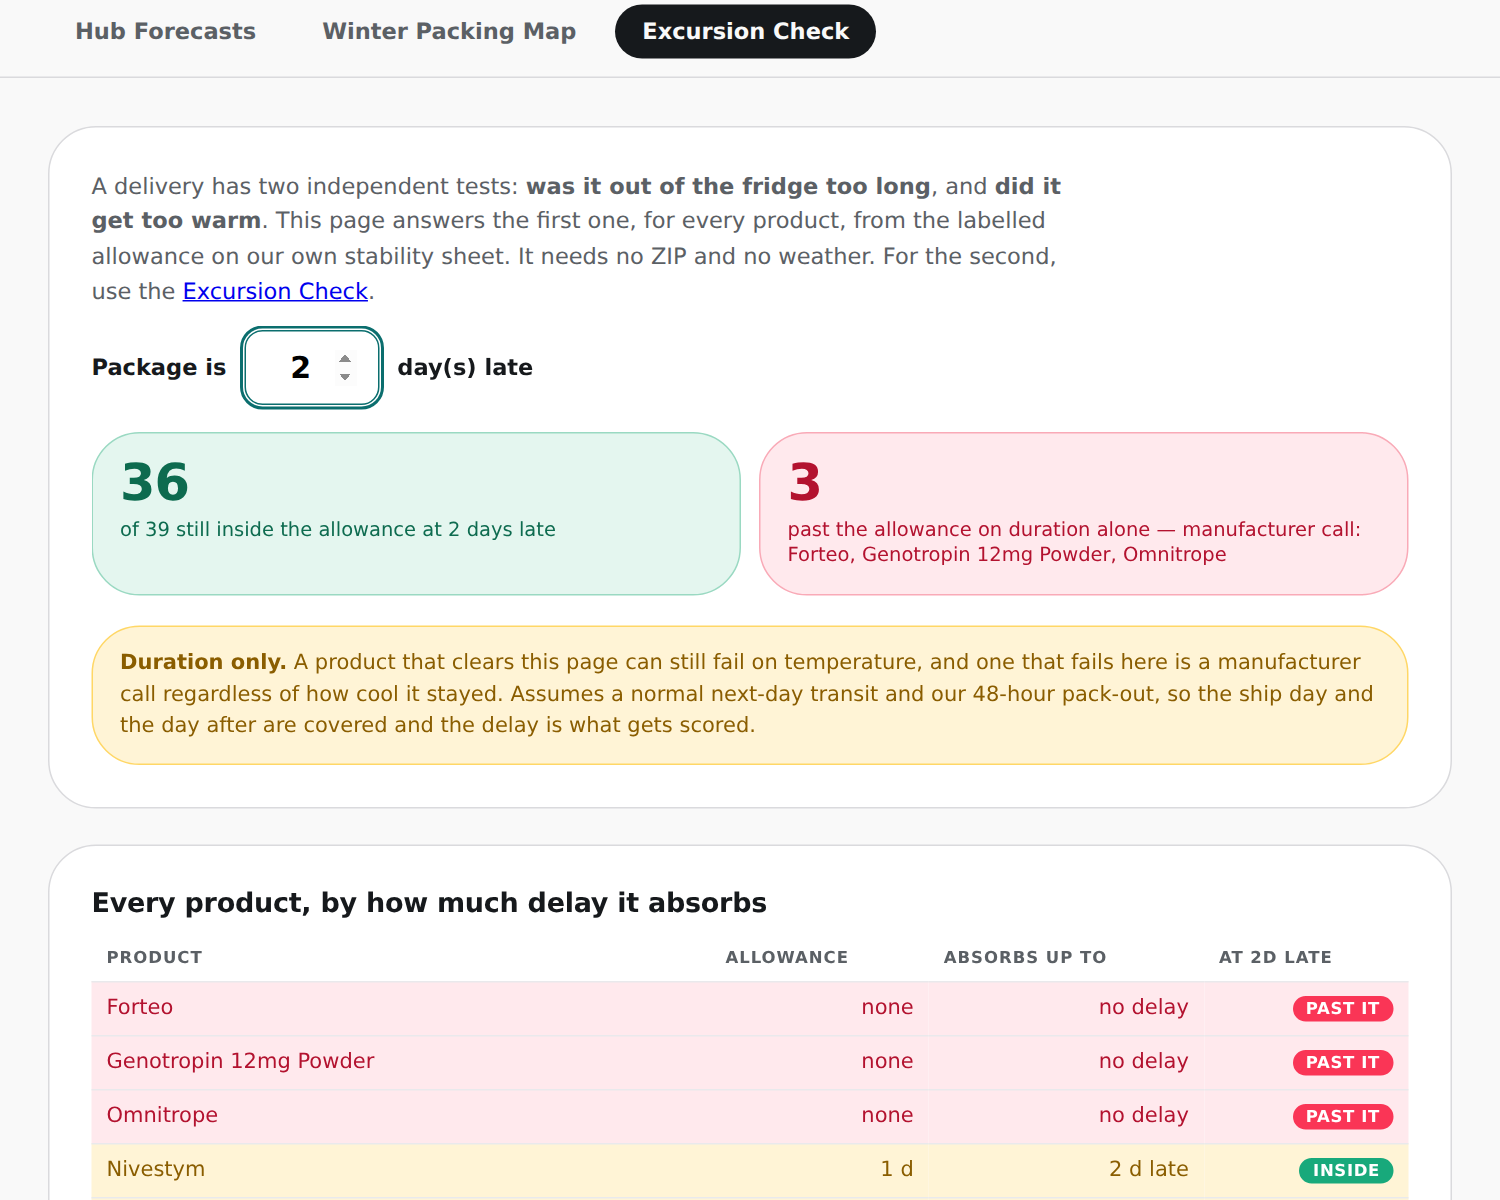
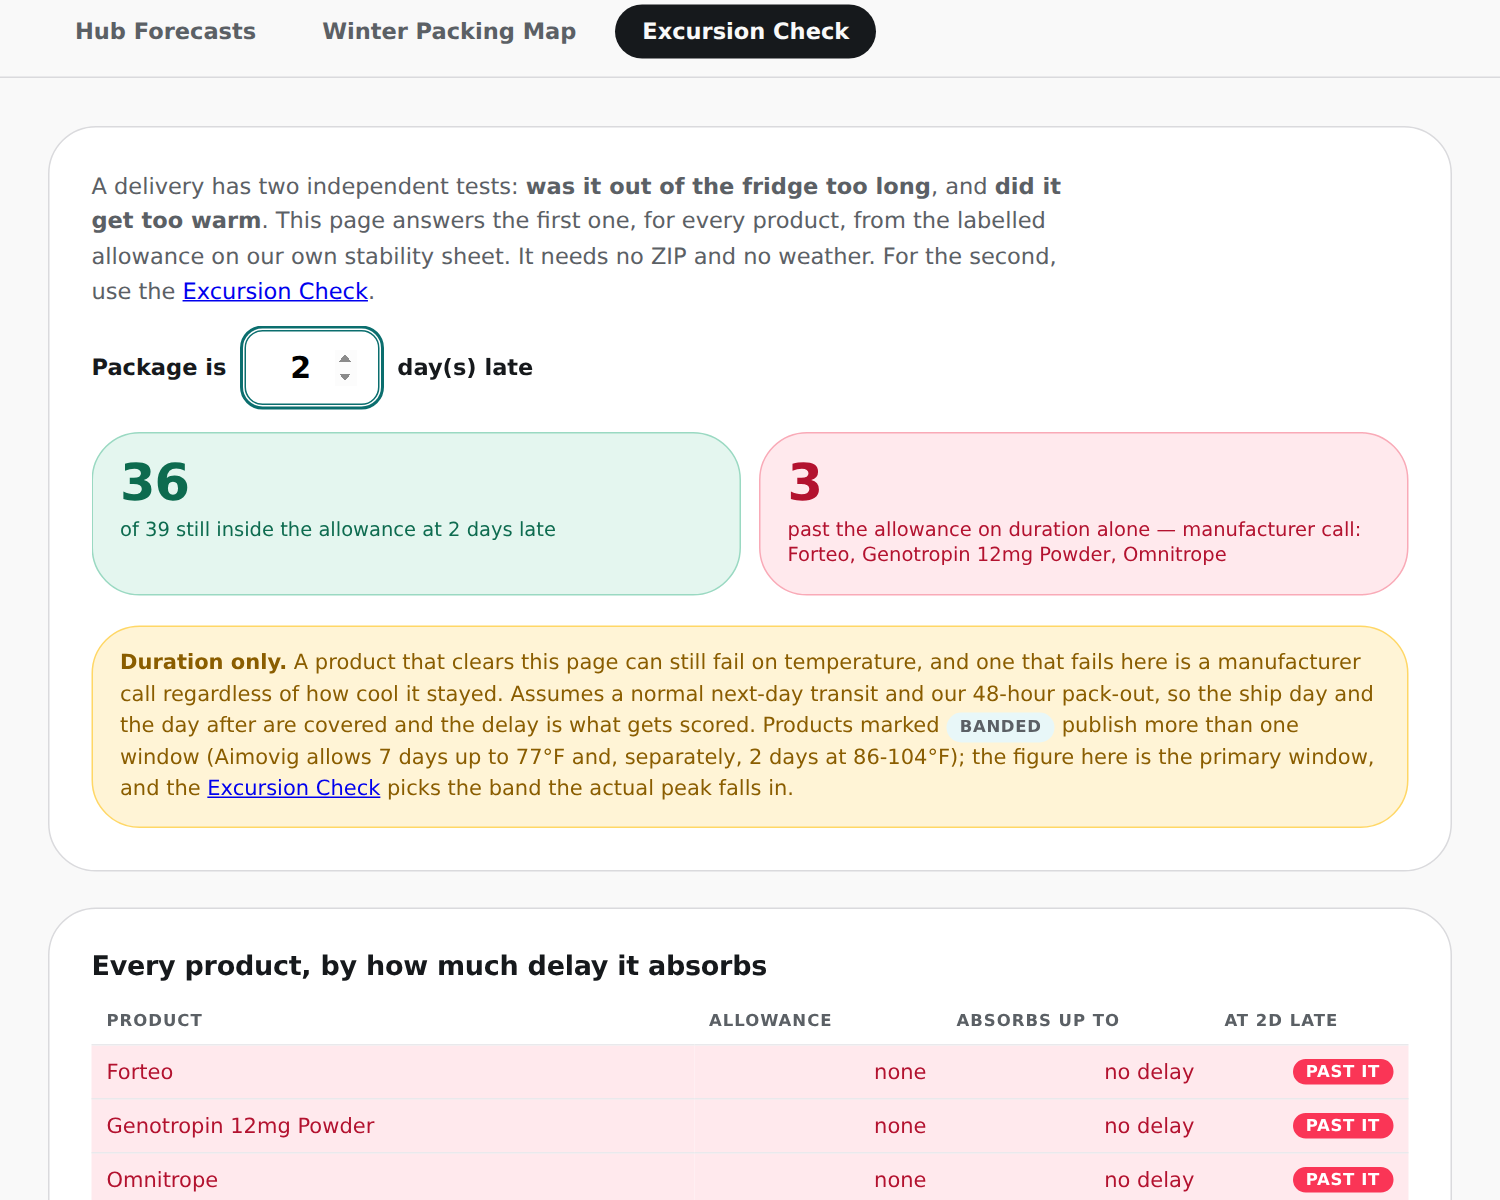
Use the published temperature windows instead of only the primary ceiling (#39)
Aimovig's label carries two windows: 7 days at up to 77F, and separately 2
days at 86-104F. Opzelura has three. The converter already stored them in
`tiers` and nothing read that field, so the page judged every peak against
the primary 77F ceiling alone. An Aimovig package peaking at 95F for a day
came back as a possible heat excursion when Amgen's own data covers two days
in exactly that range. Storing a field and never reading it is worse than not
storing it, because it looks handled.

The decision now picks the window the peak actually falls in:

- Peak inside a higher window, duration within it -> OK, citing the window by
  name and saying the exposure is covered rather than an excursion.
- Peak inside a higher window, duration past it -> judgment naming the window
  and its limit.
- Peak inside a window but the weather record is thin -> the thin-record
  judgment, which now says the window would otherwise have covered it, rather
  than wrongly claiming the duration was exceeded.
- Peak between the published windows (Aimovig has nothing from 77F to 86F) or
  above all of them -> judgment stating that no window covers it and sending
  the call to the manufacturer, rather than rounding it into either one.

Unbanded products are untouched. The allowance line lists every window, and
the delay guide marks banded products since the figure there is the primary
window only.

Keeping 77F as the operative ceiling was right: the sheet's `104**` cell is
[…]

diff --git a/excursion.html b/excursion.html
@@ -686,6 +686,25 @@ function budgetText(d, nDays) {
   return body + (d.cumulative ? ', and this is cumulative so it counts against the running total' : '');
 }
 
+// ---- banded allowances ---------------------------------------------------
+// A few labels publish more than one window. Aimovig allows 7 days at up to
+// 77F AND, separately, 2 days at 86-104F. Opzelura has three. A peak landing
+// in a higher band is judged against THAT band's own allowance rather than
+// against the primary ceiling, which would otherwise flag exposure the
+// manufacturer has already covered. Note the bands need not be contiguous:
+// Aimovig publishes nothing between 77F and 86F, and a peak in that gap gets
+// no coverage from either.
+function bandFor(d, peakF) {
+  if (!d || !d.tiers || peakF == null) return null;
+  return d.tiers.find(t => peakF >= t.minF && peakF <= t.maxF) || null;
+}
+function bandDays(t) { return Math.max(1, Math.ceil(t.hours / 24)); }
+function bandText(t) {
+  const dur = t.hours < 24 ? `${t.hours} hours` : `${bandDays(t)} day${bandDays(t) === 1 ? '' : 's'}`;
+  return `${fmtF(t.minF)} to ${fmtF(t.maxF)} for ${dur}`;
+}
+function allBandsText(d) { return (d.tiers || []).map(bandText).join(', and '); }
+
 // Is the ceiling for this product one we could not verify? Flagged rows and
 // after-first-use rows get the wider margin.
 function ceilingUncertain(d) { return !!(d && (d.flag || d.inUseAllowance)); }
@@ -780,6 +799,7 @@ function onDrugChange() {
   if (d.noExcursion) headline = `<b>No room-temperature allowance.</b> Must stay ${rangeText(floor, ceil)} at all times`;
   else if (d.calculatorUrl) headline = `Allowance depends on the presentation and whether it has been started — <a href="${d.calculatorUrl}" target="_blank" rel="noopener">manufacturer calculator</a>`;
   else if (d.refrigerated === false) headline = `<b>Room-temperature product</b> — keep within ${rangeText(floor, ceil)}${at ? `, up to ${at} at the edges` : ''}`;
+  else if (d.tiers) headline = `Allowed out of the fridge: <b>${allBandsText(d)}</b>`;
   else headline = `Allowed out of the fridge: <b>up to ${fmtF(ceil)}${at ? ` for ${at}` : ''}</b>${floor != null ? ` · not below <b>${fmtF(floor)}</b>` : ''}${d.freezeSensitive ? ' · <b>do not freeze</b>' : ''}`;
   // the two rules that change what the patient is told if the product is kept
   // the duration half of a delay call, answerable the moment a product is picked
@@ -1004,6 +1024,51 @@ function decide() {
       `<strong>Pack state:</strong> ${packState === 'cool' ? `still cool on arrival ${K}` : `warm on arrival ${R}`}`,
       `<strong>Appearance:</strong> looks normal ${K} · anything off ${R}`,
     ], '"It stayed cool the whole way and was refrigerated for most of that time, so it\'s fine to use."', '"It was out of refrigeration longer than this medication allows, so I\'m going to replace it. Please set it aside; we\'ll send a new one."');
+  }
+
+  // Banded products: judge the peak against the band it actually falls in.
+  if (d.tiers && hi != null && ceil != null && hi > ceil) {
+    const band = bandFor(d, hi);
+    if (band && nDays <= bandDays(band) && !evidenceWeak(lastResult, scored))
+      return show('ok', 'OK TO USE',
+        `Peak was ${fmtF(hi)}, above the ${fmtF(ceil)} ceiling — but ${d.name}'s label carries a second window for exactly this range: <strong>${bandText(band)}</strong>. The ${nDays} day${nDays === 1 ? '' : 's'} scored ${nDays === 1 ? 'is' : 'are'} inside it, so this exposure is covered rather than an excursion.`,
+        `"That range is actually covered by ${d.name}'s own stability data for this long, so it's fine to use. Into the fridge and use as normal."`,
+        aftercare(d) + evid(scored));
+
+    // inside the band on duration, but the record behind it is not good enough
+    if (band && nDays <= bandDays(band)) return judge('JUDGMENT CALL — the weather record is thin', [
+      `Peak was <strong>${fmtF(hi)}</strong>, inside ${d.name}'s <strong>${bandText(band)}</strong> window, and ${nDays} day${nDays === 1 ? '' : 's'} is within it`,
+      `<strong>But the record has gaps.</strong> ${evidenceLine(lastResult, scored)}`,
+      'A hotter unobserved hour could put the peak outside that window entirely',
+    ], [
+      `<strong>Pack state, which does not rely on the record:</strong> ${packState === 'cool' ? `still cool on arrival ${K}` : `warm on arrival ${R}`}`,
+      `<strong>Appearance:</strong> looks normal ${K} · anything off ${R}`,
+      `<strong>Headroom in the window:</strong> peak well under ${fmtF(band.maxF)} ${K} · close to it ${R}`,
+    ], `"What we can see puts it inside what ${d.name}'s data covers, and the packs back that up. It's fine to use."`,
+       '"The weather record for your area has gaps, so I\'d rather replace it than assume. Please set it aside."');
+
+    if (band) return judge('JUDGMENT CALL — past the high-temperature window', [
+      `Peak was <strong>${fmtF(hi)}</strong>, which falls in ${d.name}'s <strong>${bandText(band)}</strong> window`,
+      `<strong>${nDays} day${nDays === 1 ? '' : 's'} scored</strong> against that window's ${bandDays(band)}-day limit`,
+      `Published windows: ${allBandsText(d)}`,
+    ], [
+      `<strong>How far past:</strong> a day over ${K} · several days over ${R}`,
+      `<strong>Pack state:</strong> ${packState === 'cool' ? `still cool, so the box ran colder than the air ${K}` : `warm, so the box tracked the air ${R}`}`,
+      `<strong>Appearance:</strong> looks normal ${K} · anything off ${R}`,
+    ], `"It went above the usual range but within what ${d.name}'s data covers for a short period. It's fine to use."`,
+       '"It sat in that range longer than the data covers, so I\'m replacing it. Please set it aside; we\'ll send a new one."');
+
+    // peak sits between the published windows, or above all of them
+    return judge('JUDGMENT CALL — between the published windows', [
+      `Peak was <strong>${fmtF(hi)}</strong>, above the ${fmtF(ceil)} ceiling`,
+      `<strong>${d.name} publishes ${allBandsText(d)}</strong> — and nothing that covers ${fmtF(hi)}`,
+      `So this is not a case the label speaks to either way`,
+    ], [
+      `<strong>Call the manufacturer</strong> with the peak and the ${nDays} day${nDays === 1 ? '' : 's'} — they hold the data for the gap`,
+      `<strong>How close to a covered window:</strong> just over the lower one ${K} · well into the gap ${R}`,
+      `<strong>Appearance:</strong> looks normal ${K} · anything off ${R}`,
+    ], '"Let me confirm one thing with the manufacturer and call you straight back today."',
+       '"This landed outside what the label covers, so I\'m replacing it rather than guessing. Please set it aside."');
   }
 
   return judge('JUDGMENT CALL — possible heat excursion', [

diff --git a/delay-guide.html b/delay-guide.html
@@ -336,7 +336,10 @@
     <div class="caveat"><strong>Duration only.</strong> A product that clears this page can still fail on
     temperature, and one that fails here is a manufacturer call regardless of how cool it stayed. Assumes a
     normal next-day transit and our 48-hour pack-out, so the ship day and the day after are covered and the
-    delay is what gets scored.</div>
+    delay is what gets scored. Products marked <span class="pill na">banded</span> publish more than one
+    window (Aimovig allows 7 days up to 77&deg;F and, separately, 2 days at 86-104&deg;F); the figure here is
+    the primary window, and the <a href="excursion.html">Excursion Check</a> picks the band the actual peak
+    falls in.</div>
   </div>
 
   <div class="card" style="margin-top:16px;">
@@ -397,7 +400,7 @@ function render() {
     const over = late > m;
     const cls = over ? 'over' : (m - late <= 1 ? 'edge' : '');
     html += `<tr class="${cls}"><td>${d.name}${d.inUseAllowance ? ' <span class="pill na">in-use figure</span>' : ''}</td>`
-      + `<td class="num">${allowanceLabel(d)}</td>`
+      + `<td class="num">${allowanceLabel(d)}${d.tiers ? ' <span class="pill na">banded</span>' : ''}</td>`
       + `<td class="num">${m === 0 ? 'no delay' : m + ' d late'}</td>`
       + `<td class="num"><span class="pill ${over ? 'no' : 'ok'}">${over ? 'past it' : 'inside'}</span></td></tr>`;
   });

diff --git a/README.md b/README.md
@@ -146,6 +146,16 @@ Both pages are a **PWA** — open the site on a phone and "Add to Home Screen" f
   raise a freeze question for freeze-sensitive products rather than a clean OK.
   If the packs ever change to an engineered phase-change material (many melt
   at 41°F), change that constant and re-read the frozen/slushy wording.
+- **Banded allowances.** A few labels publish more than one window. Aimovig
+  allows 7 days up to 77°F **and, separately**, 2 days at 86–104°F; Opzelura has
+  three. The sheet's Max Temp cell for Aimovig reads `104**`, which is the top of
+  the *second* window, not a ceiling that holds for 7 days — using it as one
+  would invent an allowance nobody published. So `excursionMaxF` is the primary
+  ceiling and the windows live in `tiers`. A peak landing in a higher window is
+  judged against **that window's** own allowance, which stops the tool flagging
+  exposure the manufacturer has already covered. Aimovig publishes nothing
+  between 77°F and 86°F, and a peak in that gap is called out as having no
+  coverage either way rather than rounded into a window.
 - **Special product classes** the tool handles separately: products with **no
   room-temperature allowance** (Forteo, Genotropin, Omnitrope) go to the
   manufacturer, since no weather reading can clear them; **insulins whose
